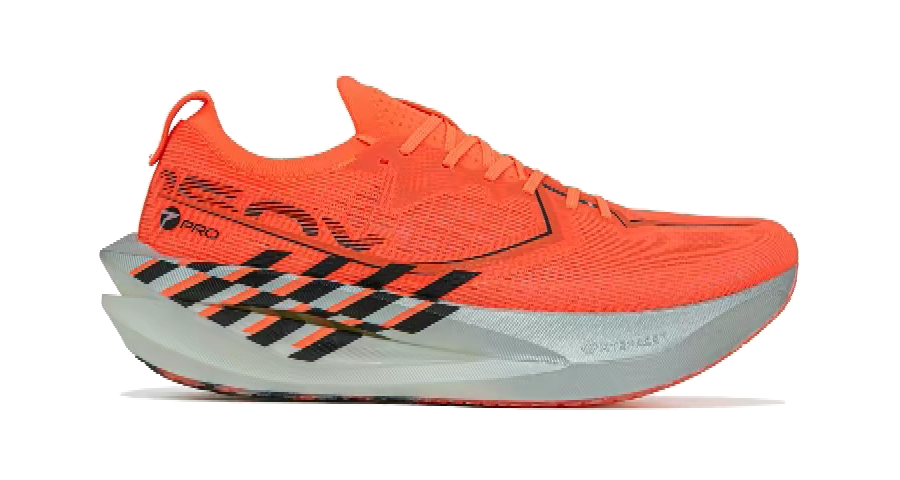
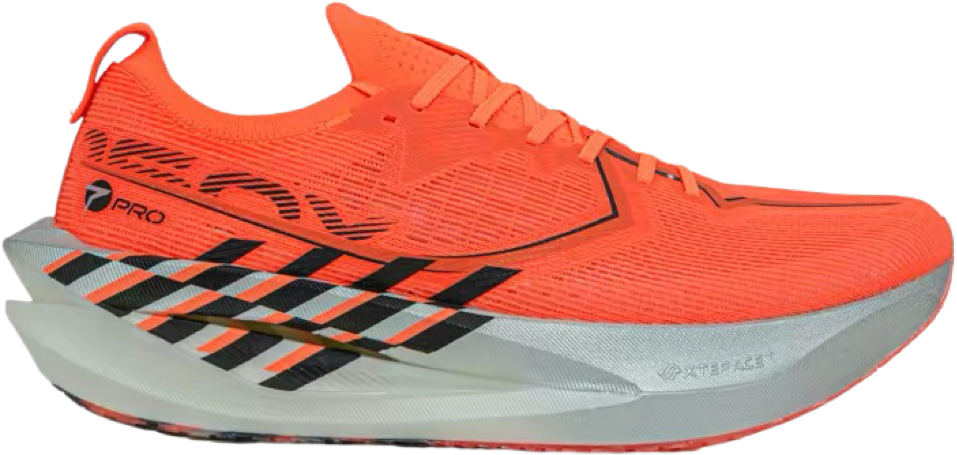
ui: 新增李宁飞电5E鞋柜+7/20真实GPS轨迹+特步重新抠图+多鞋映射

diff --git a/index.html b/index.html
@@ -777,9 +777,18 @@ new Chart(document.getElementById('weightChart'),{
 });
 
 // ===== Shoe Cabinet =====
-const shoes=(window.MERGED_DATA&&window.MERGED_DATA.shoes.length)?window.MERGED_DATA.shoes.map(s=>({...s,name:'特步 160X 7.0 Pro',limit:800,img:'xtep-160x-7-pro.png'})):[
-  {name:"特步 160X 7.0 Pro",km:24.00817,runs:1,limit:800,img:'xtep-160x-7-pro.png'},
+const SHOE_META={
+  '特步 7.0 Pro':   {display:'特步 160X 7.0 Pro',img:'xtep-160x-7-pro.png',limit:800},
+  '李宁飞电 5E':    {display:'李宁飞电 5 Elite',img:'li-ning-feidian-5e.png',limit:800},
+};
+const shoeSource=(window.MERGED_DATA&&window.MERGED_DATA.shoes.length)?window.MERGED_DATA.shoes:[
+  {name:"特步 7.0 Pro",km:24.00817,runs:1},
+  {name:"李宁飞电 5E",km:8.00987,runs:1},
 ];
+const shoes=shoeSource.map(s=>{
+  const m=SHOE_META[s.name]||{display:s.name,img:'',limit:800};
+  return {...s,name:m.display,img:m.img,limit:m.limit};
+});
 document.getElementById('shoeGrid').innerHTML=shoes.map(s=>{
   const pct=Math.min(s.km/s.limit*100,100);
   const barColor=pct>85?'var(--red)':pct>60?'var(--yellow)':'var(--green)';